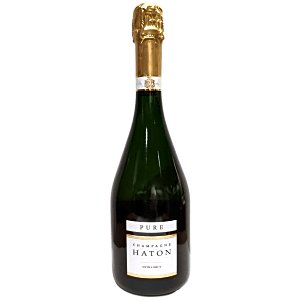
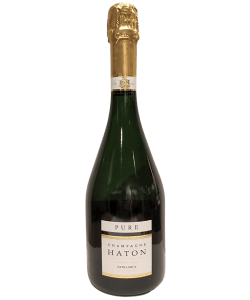
mise a jour domaines et photos produits

Changed region(s): [[0.336, 0.0, 0.672, 0.99], [0.448, 0.63, 0.476, 0.66]]

diff --git a/css/style.css b/css/style.css
@@ -161,6 +161,7 @@ form.search {
 	position: absolute;
 	img{
 		width: 60%;
+		height: auto;
 	}
 }
 
@@ -364,6 +365,7 @@ a.btn.btn-product,  a.btn.btn-post{
 .fiche img {
 	max-width: 100%;
 	padding-right: 50px;
+	height: auto;
 }
 
 .desc-prod {
@@ -402,6 +404,7 @@ a.btn.btn-product,  a.btn.btn-post{
 
 .img-domaine img {
 	width: 100%;
+	height: auto;
 }
 
 /* Page qui sommes-nous ? */
@@ -420,6 +423,7 @@ a.btn.btn-product,  a.btn.btn-post{
 .modal-header {
 	img {
 		max-width: 50% !important;
+		height: auto;
 		margin: auto;
 	}
 }
@@ -453,6 +457,7 @@ a.btn.btn-product,  a.btn.btn-post{
 	}
 	.carousel-img img{
 		width: 100%;
+		height: auto;
 	}
 }
 

diff --git a/views/privacy_policy.php b/views/privacy_policy.php
@@ -11,8 +11,8 @@ require('../process/process_cookie.php');
 		<meta name="description" content="Politique de confidentialité de la Cave Bourvence">
 		<meta name="viewport" content="width=device-width, initial-scale=1.0">
 		<title>Politique de confidentialité</title>
-		<link rel="stylesheet" href="../css/style.css">
 
+		<link rel="stylesheet" href="../css/style.css">
 		<link href="https://cdn.jsdelivr.net/npm/bootstrap@5.3.3/dist/css/bootstrap.min.css" rel="stylesheet" integrity="sha384-QWTKZyjpPEjISv5WaRU9OFeRpok6YctnYmDr5pNlyT2bRjXh0JMhjY6hW+ALEwIH" crossorigin="anonymous">
 		<script src="https://cdn.jsdelivr.net/npm/bootstrap@5.3.3/dist/js/bootstrap.bundle.min.js" integrity="sha384-YvpcrYf0tY3lHB60NNkmXc5s9fDVZLESaAA55NDzOxhy9GkcIdslK1eN7N6jIeHz" crossorigin="anonymous"></script>
 		<link rel="stylesheet" href="https://cdn.jsdelivr.net/npm/bootstrap-icons@1.5.0/font/bootstrap-icons.css">
@@ -32,8 +32,8 @@ require('../process/process_cookie.php');
 	</head>
 	<body class="politique">
 		<header>
-			<h1>Politique de confidentialité</h1>
-				<h2>cavebourvence.fr</h2>
+			<h1	class="center">Politique de confidentialité</h1>
+				<h2 class="center">cavebourvence.fr</h2>
 		</header>
 		<main>	
 			<article>
@@ -138,7 +138,7 @@ require('../process/process_cookie.php');
 			<article>
 				<h3>ARTICLE 4 : RESPONSABLE DU TRAITEMENT DES DONNÉES ET DÉLÉGUÉ À LA PROTECTION DES DONNÉES</h3>  
 					<h4>Article 4.1 : Le responsable du traitement des données</h4>  
-					<P>Les données à caractère personnelles sont collectées par la Cave Bourvence, SAS au capital de 1.000 €, dont le numéro d’immatriculation est le 900 195 280.</P>
+					<P>Les données à caractère personnelles sont collectées par la Cave Bourvence, SAS au capital de 141.400 €, dont le numéro d’immatriculation est le 900 195 280.</P>
 
 					<p>Le responsable du traitement des données à caractère personnel peut être contacté de la manière suivante :</p>
 					<ul>

diff --git a/views/domaine.php b/views/domaine.php
@@ -15,7 +15,8 @@ $domaines = $products->getAllDomaines($frs_id);
 	<head>
 		<meta charset="UTF-8">
 		<meta name="viewport" content="width=device-width, initial-scale=1.0">
-		<title>Cave Bourvence, Votre cave à vin</title>
+		<meta name="description" content="Page d'un domaine vinicole représenté à la Cave Bourvence">
+		<title>Cave Bourvence, Un de nos domaine</title>
 
 		<link rel="stylesheet" href="/bourvence/css/style.css">
 		<link href="https://cdn.jsdelivr.net/npm/bootstrap@5.3.3/dist/css/bootstrap.min.css" rel="stylesheet" integrity="sha384-QWTKZyjpPEjISv5WaRU9OFeRpok6YctnYmDr5pNlyT2bRjXh0JMhjY6hW+ALEwIH" crossorigin="anonymous">
@@ -49,11 +50,11 @@ $domaines = $products->getAllDomaines($frs_id);
 			<div class="container ficheDomaine">
 				<div class="row center">
 					<h1 class="col-12 center"><?= $domaines[0]['frs_name'] ?></h1>
-					<div class="col-6 img-domaine">
-						<img src="/bourvence/img/domaines/<?= $domaines[0]['frs_img'] ?>" alt="<?= $domaines[0]['frs_name'] ?>" height="500" >
+					<div class="col-12 col-lg-6 img-domaine">
+						<img src="/bourvence/img/domaines/<?= $domaines[0]['frs_img'] ?>" alt="<?= $domaines[0]['frs_name'] ?>" width="300" height="300" >
 					</div>
 													
-					<div class="col-6">
+					<div class="col-12 col-lg-6">
 						<p><?= $domaines[0]['frs_desc'] ?></p>
 					</div>
 				</div>

diff --git a/views/regions.php b/views/regions.php
@@ -10,7 +10,8 @@ require('../process/process_cookie.php');
 	<head>
 		<meta charset="UTF-8">
 		<meta name="viewport" content="width=device-width, initial-scale=1.0">
-		<title>Cave Bourvence, Votre cave à vin</title>
+		<meta name="description" content="Page d'affichage des régions représentées à la Cave Bourvence">
+		<title>Cave Bourvence, les régions de nos produits</title>
 
 		<link rel="stylesheet" href="/bourvence/css/style.css">
 		<link href="https://cdn.jsdelivr.net/npm/bootstrap@5.3.3/dist/css/bootstrap.min.css" rel="stylesheet" integrity="sha384-QWTKZyjpPEjISv5WaRU9OFeRpok6YctnYmDr5pNlyT2bRjXh0JMhjY6hW+ALEwIH" crossorigin="anonymous">

diff --git a/views/result_filter.php b/views/result_filter.php
@@ -13,7 +13,8 @@ $productsFilter = $_SESSION['filter'];
 	<head>
 		<meta charset="UTF-8">
 		<meta name="viewport" content="width=device-width, initial-scale=1.0">
-		<title>Cave Bourvence, Votre cave à vin</title>
+		<meta name="description" content="Page de résulat du filtre des produits de la Cave Bourvence">
+		<title>Cave Bourvence, Filtre sur nos produits</title>
 
 		<link rel="stylesheet" href="/bourvence/css/style.css">
 		<link href="https://cdn.jsdelivr.net/npm/bootstrap@5.3.3/dist/css/bootstrap.min.css" rel="stylesheet" integrity="sha384-QWTKZyjpPEjISv5WaRU9OFeRpok6YctnYmDr5pNlyT2bRjXh0JMhjY6hW+ALEwIH" crossorigin="anonymous">

diff --git a/views/domaines.php b/views/domaines.php
@@ -10,7 +10,8 @@ require('../process/process_cookie.php');
 	<head>
 		<meta charset="UTF-8">
 		<meta name="viewport" content="width=device-width, initial-scale=1.0">
-		<title>Cave Bourvence, Votre cave à vin</title>
+		<meta name="description" content="Page des domaines vinicoles représentés à la Cave Bourvence">
+		<title>Cave Bourvence, Nos domaines</title>
 
 		<link rel="stylesheet" href="/bourvence/css/style.css">
 		<link href="https://cdn.jsdelivr.net/npm/bootstrap@5.3.3/dist/css/bootstrap.min.css" rel="stylesheet" integrity="sha384-QWTKZyjpPEjISv5WaRU9OFeRpok6YctnYmDr5pNlyT2bRjXh0JMhjY6hW+ALEwIH" crossorigin="anonymous">

diff --git a/views/strangers.php b/views/strangers.php
@@ -10,7 +10,8 @@ require('../process/process_cookie.php');
 	<head>
 		<meta charset="UTF-8">
 		<meta name="viewport" content="width=device-width, initial-scale=1.0">
-		<title>Cave Bourvence, Votre cave à vin</title>
+		<meta name="description" content="Page affichant les vins étrangers de la Cave Bourvence">
+		<title>Cave Bourvence, Les vins étrangers</title>
 
 		<link rel="stylesheet" href="/bourvence/css/style.css">
 		<link href="https://cdn.jsdelivr.net/npm/bootstrap@5.3.3/dist/css/bootstrap.min.css" rel="stylesheet" integrity="sha384-QWTKZyjpPEjISv5WaRU9OFeRpok6YctnYmDr5pNlyT2bRjXh0JMhjY6hW+ALEwIH" crossorigin="anonymous">

diff --git a/views/contact.php b/views/contact.php
@@ -9,7 +9,8 @@ require('../process/process_cookie.php');
 	<head>
 		<meta charset="UTF-8">
 		<meta name="viewport" content="width=device-width, initial-scale=1.0">
-		<title>Cave Bourvence, Votre cave à vin</title>
+		<meta name="description" content="Page de formulaire de Contact avec la Cave Bourvence">
+		<title>Contact avec la Cave Bourvence</title>
 
 		<link rel="stylesheet" href="/bourvence/css/style.css">
 		<link href="https://cdn.jsdelivr.net/npm/bootstrap@5.3.3/dist/css/bootstrap.min.css" rel="stylesheet" integrity="sha384-QWTKZyjpPEjISv5WaRU9OFeRpok6YctnYmDr5pNlyT2bRjXh0JMhjY6hW+ALEwIH" crossorigin="anonymous">

diff --git a/views/products.php b/views/products.php
@@ -11,7 +11,8 @@ require('../process/process_cookie.php');
 	<head>
 		<meta charset="UTF-8">
 		<meta name="viewport" content="width=device-width, initial-scale=1.0">
-		<title>Cave Bourvence, Votre cave à vin</title>
+		<meta name="description" content="Page des produits vendus à la Cave Bourvence">
+		<title>Cave Bourvence, Nos produits</title>
 
 		<link rel="stylesheet" href="/bourvence/css/style.css">
 		<link href="https://cdn.jsdelivr.net/npm/bootstrap@5.3.3/dist/css/bootstrap.min.css" rel="stylesheet" integrity="sha384-QWTKZyjpPEjISv5WaRU9OFeRpok6YctnYmDr5pNlyT2bRjXh0JMhjY6hW+ALEwIH" crossorigin="anonymous">

diff --git a/views/search.php b/views/search.php
@@ -14,7 +14,8 @@ $nbr = count($products);
 	<head>
 		<meta charset="utf-8">
 		<meta name="viewport" content="width=device-width, initial-scale=1">
-		<title>Recherche sur les produits</title>
+		<meta name="description" content="Page résultat de recherche sur les produits de la Cave Bourvence">
+		<title>Cave Bourvence, Recherche sur nos produits</title>
 
 		<link rel="stylesheet" href="../css/style.css">
 		<link href="https://cdn.jsdelivr.net/npm/bootstrap@5.3.3/dist/css/bootstrap.min.css" rel="stylesheet" integrity="sha384-QWTKZyjpPEjISv5WaRU9OFeRpok6YctnYmDr5pNlyT2bRjXh0JMhjY6hW+ALEwIH" crossorigin="anonymous">

diff --git a/views/mentionsLegales.php b/views/mentionsLegales.php
@@ -9,7 +9,8 @@ require('../process/process_cookie.php');
 <head>
 	<meta charset="utf-8">
 	<meta name="viewport" content="width=device-width, initial-scale=1">
-	<title>Qui sommes-nous ?</title>
+	<meta name="description" content="Page des mentions légales de la Cave Bourvence">
+	<title>Mentions légales</title>
 
 	<link rel="stylesheet" href="../css/style.css">
 	<link href="https://cdn.jsdelivr.net/npm/bootstrap@5.3.3/dist/css/bootstrap.min.css" rel="stylesheet" integrity="sha384-QWTKZyjpPEjISv5WaRU9OFeRpok6YctnYmDr5pNlyT2bRjXh0JMhjY6hW+ALEwIH" crossorigin="anonymous">

diff --git a/views/product.php b/views/product.php
@@ -18,6 +18,7 @@ $colorProd = $products->getColor($prod_id);
 	<head>
 		<meta charset="UTF-8">
 		<meta name="viewport" content="width=device-width, initial-scale=1.0">
+		<meta name="description" content="Page de détail d'un produit de la Cave Bourvence">
 		<title>Cave Bourvence, Votre cave à vin</title>
 
 		<link rel="stylesheet" href="/bourvence/css/style.css">
